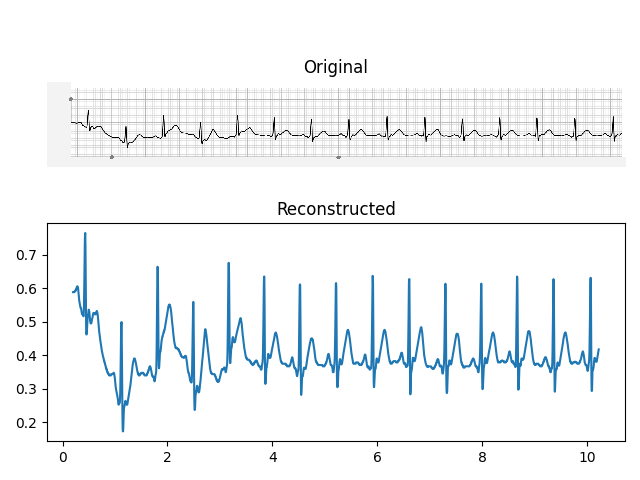
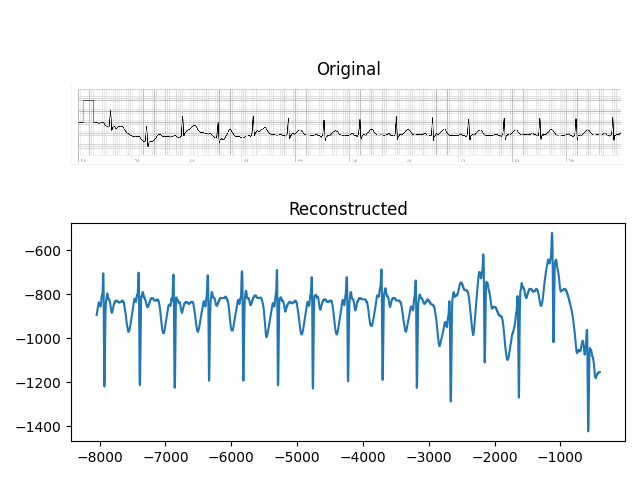
tests are failing

diff --git a/tests/test_cli.py b/tests/test_cli.py
@@ -9,14 +9,14 @@ from pathlib import Path
 HERE = Path(__file__).parent.resolve()
 
 
-def _run_cmdline(infile: Path, points, locations):
+def _run_cmdline(infile: Path, points, locations, extra: str = ""):
     cmd = f"plotdigitizer {str(infile)} "
     pts = " ".join([f"-p {','.join(map(str,pt))}" for pt in points])
     locs = " ".join([f"-l {','.join(map(str,pt))}" for pt in locations])
     cmd += f"{pts} {locs}"
     outfile = infile.with_suffix(".result.png")
     trajfile = infile.with_suffix(".result.csv")
-    cmd += f" --plot {str(outfile)} --output {trajfile}"
+    cmd += f" --plot {str(outfile)} --output {trajfile} {extra}"
     r = subprocess.run(cmd, check=True, shell=True)
     assert r.returncode == 0, f"Failed test {r.returncode}"
     return trajfile
@@ -61,5 +61,6 @@ def test_grid():
         HERE / ".." / "figures" / "graph_with_grid.png",
         [(200, 0), (1000, 0), (0, 50)],
         [(269, 69), (1780, 69), (81, 542)],
+        "--remove-grid"
     )
     _check_csv_file(csvfile)

diff --git a/plotdigitizer/plotdigitizer.py b/plotdigitizer/plotdigitizer.py
@@ -8,7 +8,7 @@ import typer
 from typing_extensions import Annotated
 
 from plotdigitizer import image
-from plotdigitizer import plot
+from plotdigitizer.plot import plot_traj
 
 # Logger
 from loguru import logger
@@ -40,9 +40,9 @@ def digitize_plot(
             " If not given, you will be asked to click on the figure.",
         ),
     ] = [],
-    plot_file: Annotated[
+    plot: Annotated[
         T.Optional[Path],
-        typer.Option("--plot-file", help="Plot the final result. Requires matplotlib"),
+        typer.Option("--plot", help="Plot the final result. Requires matplotlib"),
     ] = None,
     output: Annotated[
         T.Optional[Path],
@@ -89,8 +89,8 @@ def digitize_plot(
     # compute trajectories
     traj = figure.trajectories()
 
-    if plot_file is not None:
-        plot.plot_traj(traj, figure._last(), plot_file)
+    if plot is not None:
+        plot_traj(traj, figure._last(), plot)
 
     outfile = output or f"{infile}.traj.csv"
     with open(outfile, "w") as f:
